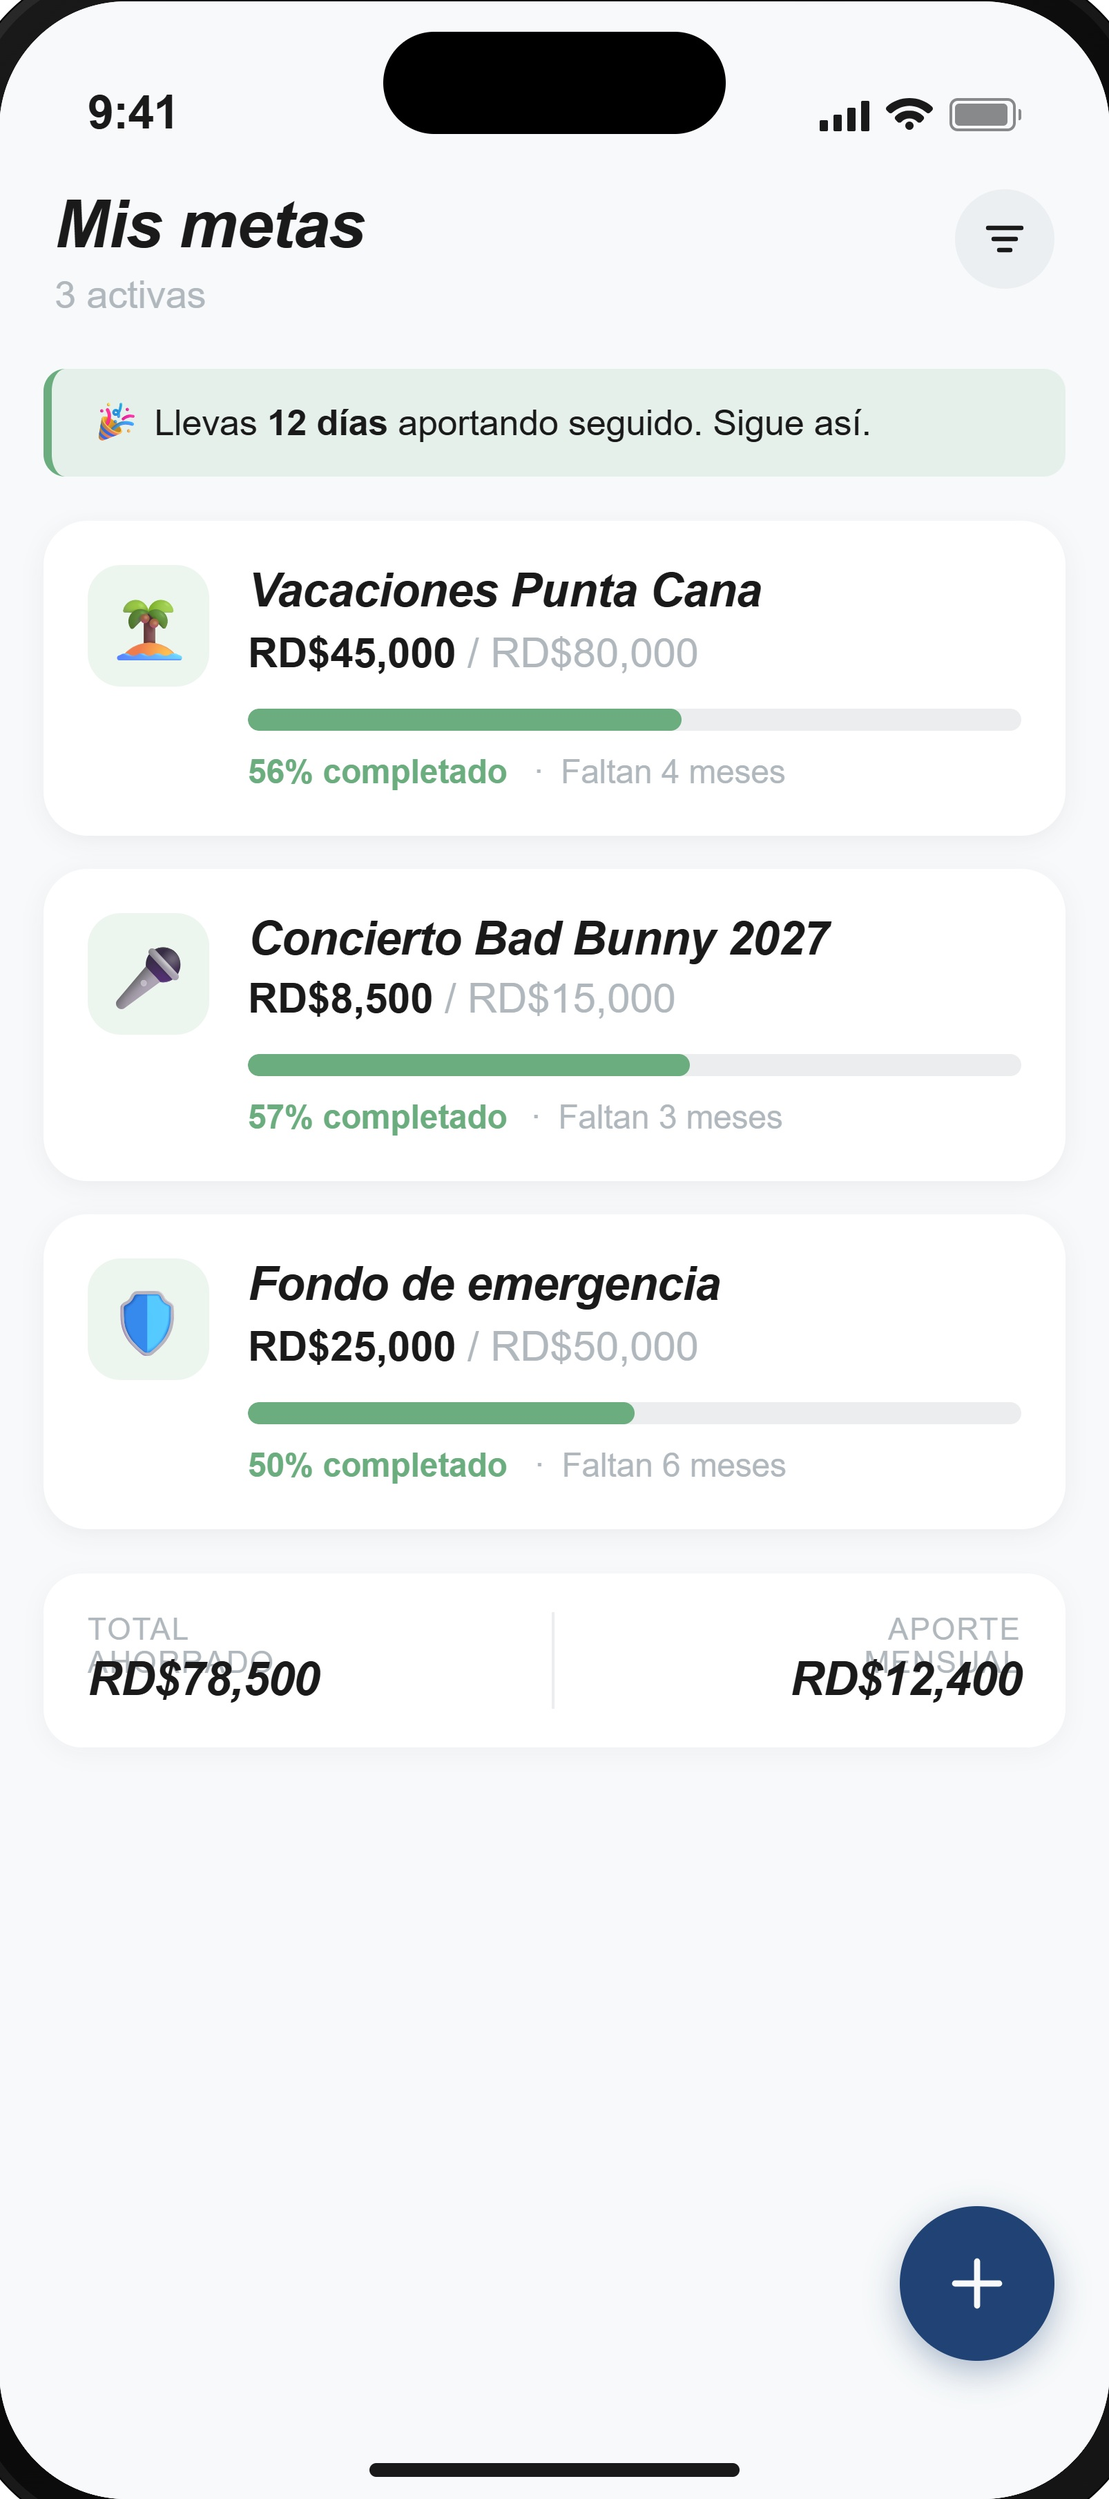
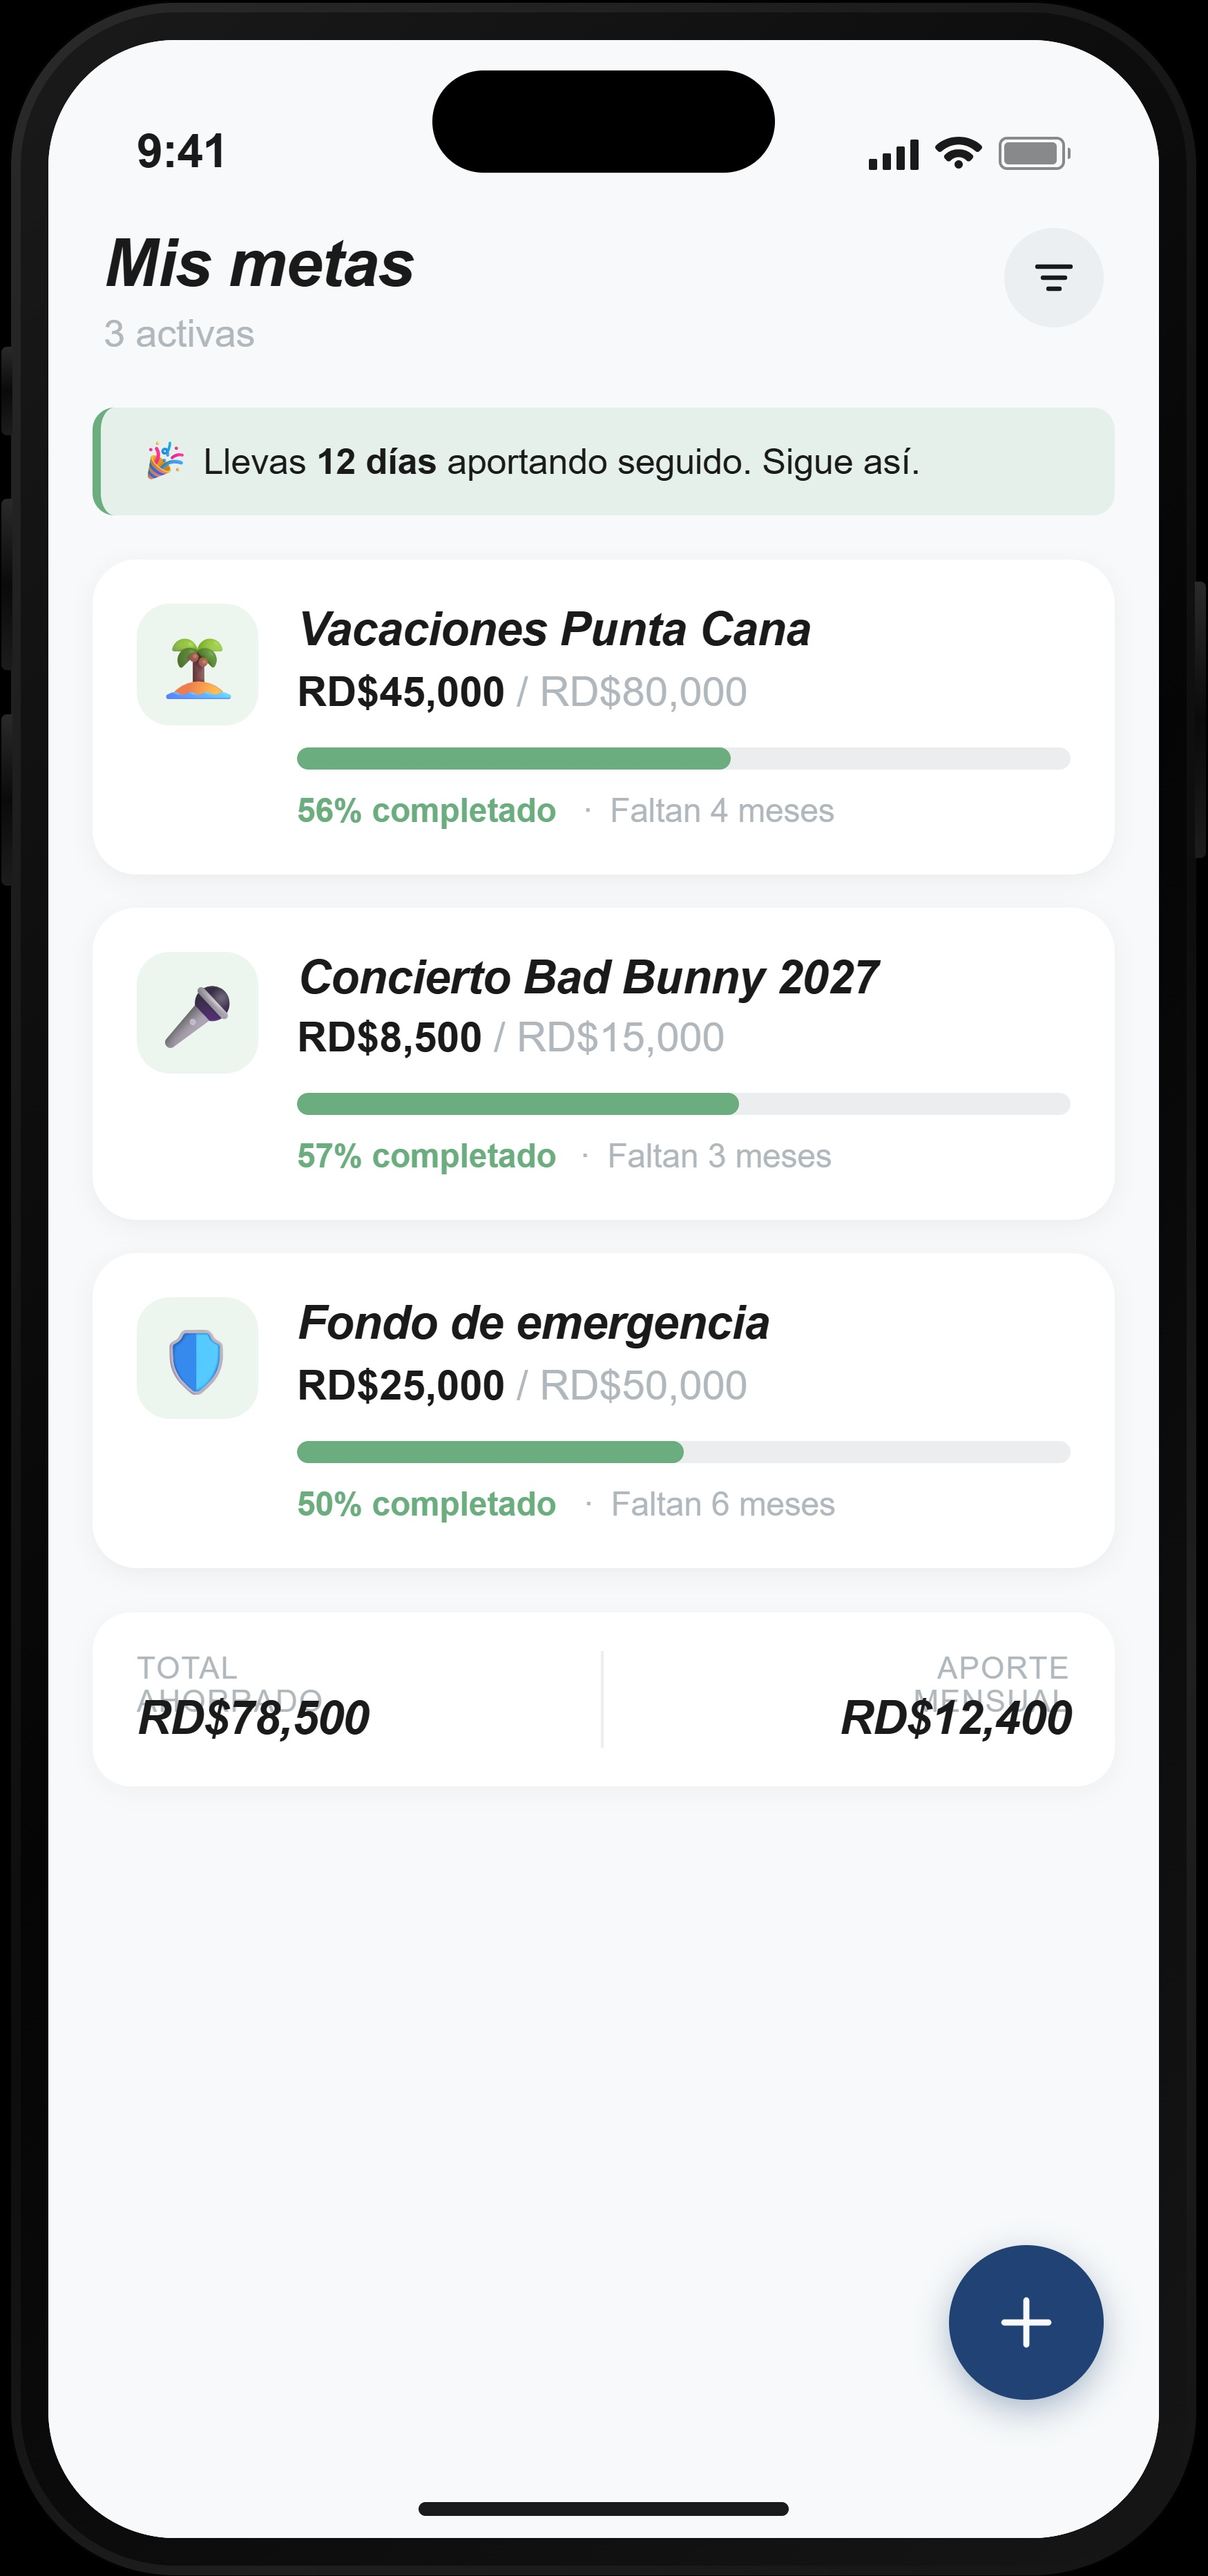
nueva foto

diff --git a/FinzenAI-landingPages/components/sections/Solution.tsx b/FinzenAI-landingPages/components/sections/Solution.tsx
@@ -24,22 +24,16 @@ export default function Solution() {
             isInView ? 'opacity-100 translate-y-0' : 'opacity-0 translate-y-5'
           }`}
         >
-          {/* App screenshot - phone frame */}
+          {/* App screenshot — la imagen ya trae su propio marco de teléfono,
+              así que la mostramos directa, sin marco CSS y sin recortar. */}
           <div className="flex justify-center md:justify-start md:-ml-8">
-            <div className="relative">
-              <div className="relative w-[270px] h-[540px] md:w-[310px] md:h-[620px] bg-black rounded-[3rem] p-[6px] shadow-2xl border border-white/20">
-                {/* Notch */}
-                <div className="absolute top-0 left-1/2 -translate-x-1/2 w-[120px] h-[28px] bg-black rounded-b-2xl z-10" />
-                <div className="relative w-full h-full rounded-[2.6rem] overflow-hidden">
-                  <Image
-                    src="/metas-screen.jpg"
-                    alt="FinZen AI - Metas de ahorro"
-                    fill
-                    className="object-cover"
-                  />
-                </div>
-              </div>
-            </div>
+            <Image
+              src="/metas-screen.jpg"
+              alt="FinZen AI - Metas de ahorro"
+              width={740}
+              height={1576}
+              className="w-[270px] md:w-[310px] h-auto"
+            />
           </div>
 
           {/* Text content */}
